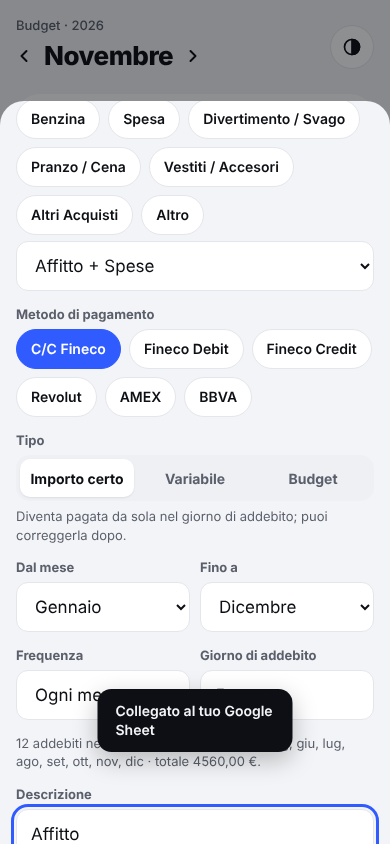
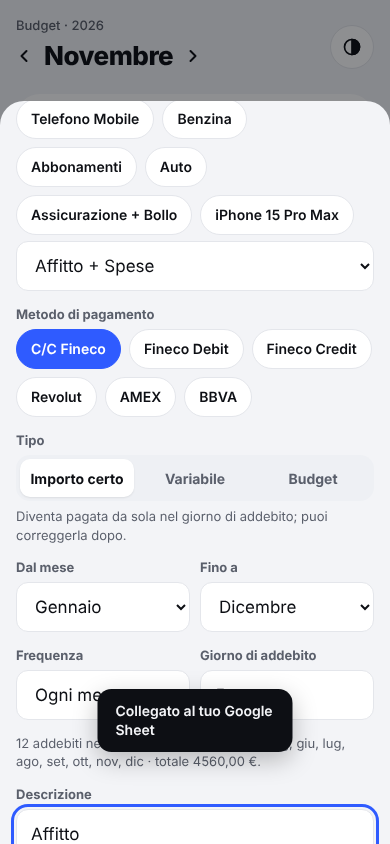
Ripartizione libera anche su mesi passati e sull'anno precedente
Claude-Session: https://claude.ai/code/session_01FKbM9GixWnYNCfzBey8tga

diff --git a/index.html b/index.html
@@ -1009,42 +1009,46 @@ document.addEventListener('submit',async e=>{
 function mesiDa(anno,mese,n=18){const out=[];for(let i=0;i<n;i++){const mm=mese-1+i;out.push({anno:anno+Math.floor(mm/12),mese:mm%12+1})}return out}
 const amKey=x=>x.anno+'-'+pad(x.mese);
 const amLabel=x=>MESI[x.mese-1]+(x.anno!==S.anno?' '+x.anno:'');
+function mesiTutti(c){const out=[];for(let a=c-1;a<=c+1;a++)for(let m=1;m<=12;m++)out.push({anno:a,mese:m});return out}
 function ripEditor(box,{tot,start,init}){
+  const centro=init&&init.centro||S.anno;let eqStart=null;
   let mode=init?init.mode:'no',n=init&&init.n||2;
   let rows=init&&init.rows?init.rows.map(r=>({am:r.am,v:r.v})):null;
   box.innerHTML=`<div class="seg" role="group" aria-label="Ripartizione"><button type="button" data-rip="no">Nessuna</button><button type="button" data-rip="eq">In parti uguali</button><button type="button" data-rip="cu">Personalizzata</button></div>
-   <div class="rip-eq" style="margin-top:10px"><label for="rip-n" class="small muted">Numero di mesi, dal mese di addebito</label><select id="rip-n" style="margin-top:6px">${Array.from({length:11},(_,i)=>`<option value="${i+2}" ${i+2===n?'selected':''}>${i+2} mesi</option>`).join('')}</select></div>
+   <div class="rip-eq" style="margin-top:10px"><div class="two"><div class="field"><label for="rip-da">Dal mese</label><select id="rip-da"></select></div><div class="field"><label for="rip-n">Per quanti mesi</label><select id="rip-n">${Array.from({length:11},(_,i)=>`<option value="${i+2}" ${i+2===n?'selected':''}>${i+2} mesi</option>`).join('')}</select></div></div></div>
    <div class="rip-cu" style="margin-top:10px;display:flex;flex-direction:column;gap:8px"><div class="rip-rows" style="display:flex;flex-direction:column;gap:8px"></div><button type="button" class="link rip-add" style="align-self:flex-start">+ Aggiungi mese</button></div>
    <p class="note rip-note" style="margin-top:8px"></p>`;
   const $=q=>box.querySelector(q);
-  const opts=sel=>mesiDa(start().anno,start().mese).map(x=>`<option value="${amKey(x)}" ${amKey(x)===sel?'selected':''}>${amLabel(x)}</option>`).join('');
+  const opts=sel=>mesiTutti(centro).map(x=>`<option value="${amKey(x)}" ${amKey(x)===sel?'selected':''}>${amLabel(x)}</option>`).join('');
   const ensureRows=()=>{if(rows&&rows.length)return;const m=mesiDa(start().anno,start().mese,2);rows=m.map(x=>({am:amKey(x),v:''}))};
-  const drawRows=()=>{$('.rip-rows').innerHTML=rows.map((r,i)=>`<div style="display:grid;grid-template-columns:1.2fr 1fr 44px;gap:8px;align-items:center"><select data-i="${i}" class="rip-m" aria-label="Mese della quota ${i+1}" style="height:46px;font-size:16px">${opts(r.am)}</select><input data-i="${i}" class="rip-v num" inputmode="decimal" placeholder="0,00" aria-label="Importo della quota ${i+1}" value="${esc(r.v)}" style="height:46px;font-size:16px;border-radius:12px;border:1px solid var(--line);background:var(--card);padding:0 12px;min-width:0"><button type="button" class="ghost rip-del" data-i="${i}" aria-label="Togli la quota ${i+1}" ${rows.length<=2?'disabled':''}>${ICON.close}</button></div>`).join('');
+  const drawRows=()=>{$('.rip-rows').innerHTML=rows.map((r,i)=>`<div style="display:grid;grid-template-columns:1.2fr 1fr 44px;gap:8px;align-items:center"><select data-i="${i}" class="rip-m" aria-label="Mese della quota ${i+1}" style="height:46px;font-size:16px">${opts(r.am)}</select><input data-i="${i}" class="rip-v num" inputmode="decimal" placeholder="0,00" aria-label="Importo della quota ${i+1}" value="${esc(r.v)}" style="height:46px;font-size:16px;border-radius:12px;border:1px solid var(--line);background:var(--card);padding:0 12px;min-width:0"><button type="button" class="ghost rip-del" data-i="${i}" aria-label="Togli la quota ${i+1}" ${rows.length<=1?'disabled':''}>${ICON.close}</button></div>`).join('');
     box.querySelectorAll('.rip-m').forEach(x=>x.onchange=()=>{rows[+x.dataset.i].am=x.value;note()});
     box.querySelectorAll('.rip-v').forEach(x=>x.oninput=()=>{rows[+x.dataset.i].v=x.value;note()});
     box.querySelectorAll('.rip-del').forEach(x=>x.onclick=()=>{rows.splice(+x.dataset.i,1);drawRows();note()})};
+  const drawEq=()=>{const cur=eqStart||amKey(start());$('#rip-da').innerHTML=opts(cur)};
   const calc=()=>{const v=tot();
     if(mode==='no'){const s0=start();return {ok:true,list:[{anno:s0.anno,mese:s0.mese,importo:r2(v||0)}]}}
-    if(mode==='eq'){const m=mesiDa(start().anno,start().mese,n);const q=r2(v/n);return {ok:v>0,err:'Scrivi l\'importo',list:m.map((x,i)=>({anno:x.anno,mese:x.mese,importo:i===n-1?r2(v-q*(n-1)):q}))}}
+    if(mode==='eq'){const es=eqStart||amKey(start());const [ea,em]=es.split('-').map(Number);const m=mesiDa(ea,em,n);const q=r2(v/n);return {ok:v>0,err:'Scrivi l\'importo',list:m.map((x,i)=>({anno:x.anno,mese:x.mese,importo:i===n-1?r2(v-q*(n-1)):q}))}}
     const seen=new Set();const list=[];
     for(const r of rows){const a=num(r.v);if(r.v===''||isNaN(a))continue;if(seen.has(r.am))return {ok:false,err:'Ogni mese può comparire una volta sola'};seen.add(r.am);const [an,me]=r.am.split('-').map(Number);list.push({anno:an,mese:me,importo:r2(a)})}
     list.sort((a,b)=>a.anno-b.anno||a.mese-b.mese);
     const somma=r2(list.reduce((s,q)=>s+q.importo,0)),resto=r2((v||0)-somma);
     if(!(v>0))return {ok:false,err:'Scrivi l\'importo',list,resto};
-    if(list.length<2)return {ok:false,err:'Inserisci almeno due mesi con il loro importo',list,resto};
+    if(list.length<1)return {ok:false,err:'Inserisci almeno un mese con il suo importo',list,resto};
     if(Math.abs(resto)>0.004)return {ok:false,err:resto>0?`Mancano ${eur(resto)} da ripartire`:`Hai ripartito ${eur(-resto)} in più del totale`,list,resto};
     return {ok:true,list,resto:0}};
   const note=()=>{const R=calc(),el=$('.rip-note');
     if(mode==='no'){el.textContent='Conta tutta nel mese di addebito.';return}
     if(mode==='eq'){el.textContent=R.ok?R.list.map(q=>amLabel(q)+' '+eur(q.importo)).join(' · ')+'. Uscita reale una sola volta.':'Scrivi l\'importo per vedere le quote.';return}
-    el.innerHTML=R.ok?'<span class="pos">Ripartito tutto.</span> Uscita reale una sola volta.':esc(R.err)};
+    el.innerHTML=R.ok?'<span class="pos">Ripartito tutto.</span> '+(R.list.length>1?'Uscita reale una sola volta. ':'')+'Puoi scegliere anche mesi passati o dell\'anno prima.':esc(R.err)};
   const sync=()=>{box.querySelectorAll('[data-rip]').forEach(b=>b.setAttribute('aria-pressed',b.dataset.rip===mode));
-    $('.rip-eq').hidden=mode!=='eq';$('.rip-cu').hidden=mode!=='cu';if(mode==='cu'){ensureRows();drawRows()}note()};
+    $('.rip-eq').hidden=mode!=='eq';$('.rip-cu').hidden=mode!=='cu';if(mode==='cu'){ensureRows();drawRows()}if(mode==='eq')drawEq();note()};
   box.querySelectorAll('[data-rip]').forEach(b=>b.onclick=()=>{mode=b.dataset.rip;sync()});
   $('#rip-n').onchange=e=>{n=+e.target.value;note()};
-  $('.rip-add').onclick=()=>{ensureRows();const used=new Set(rows.map(r=>r.am));const nx=mesiDa(start().anno,start().mese).find(x=>!used.has(amKey(x)));if(!nx){toast('Hai già usato tutti i mesi disponibili');return}rows.push({am:amKey(nx),v:''});drawRows();note()};
+  $('#rip-da').onchange=e=>{eqStart=e.target.value;note()};
+  $('.rip-add').onclick=()=>{ensureRows();const used=new Set(rows.map(r=>r.am));const last=rows.length?rows[rows.length-1].am.split('-').map(Number):[start().anno,start().mese];const all=mesiTutti(centro);const nx=mesiDa(last[0],last[1],36).slice(1).find(x=>!used.has(amKey(x))&&all.some(y=>amKey(y)===amKey(x)))||all.find(x=>!used.has(amKey(x)));if(!nx){toast('Hai già usato tutti i mesi disponibili');return}rows.push({am:amKey(nx),v:''});drawRows();note()};
   sync();
-  return {quote:calc,refresh:()=>{if(mode==='cu')drawRows();note()}};
+  return {quote:calc,refresh:()=>{if(mode==='cu')drawRows();if(mode==='eq')drawEq();note()}};
 }
 // scrive le quote (sostituendo quelle di un gruppo esistente)
 async function salvaQuote(base,totale,list,gruppoVecchio){
@@ -1070,7 +1074,7 @@ function sheetGruppo(g){
    <div class="field"><label>Ripartizione</label><div id="g-ripbox"></div></div>
    <div class="actions"><button class="pill-btn danger" type="button" id="g-del">Elimina</button><button class="pill-btn" type="submit">Salva</button></div></form>`,(el,close)=>{
     const $=q=>el.querySelector(q);const imp=$('#g-imp'),ms=$('#g-mese');
-    const RE=ripEditor($('#g-ripbox'),{tot:()=>num(imp.value),start:()=>({anno:start.anno,mese:+ms.value}),init:{mode:'cu',rows:qs.map(x=>({am:amKey(x),v:inp(x.importo)}))}});
+    const RE=ripEditor($('#g-ripbox'),{tot:()=>num(imp.value),start:()=>({anno:start.anno,mese:+ms.value}),init:{mode:'cu',centro:Math.round((qs[0].anno+qs[qs.length-1].anno)/2),rows:qs.map(x=>({am:amKey(x),v:inp(x.importo)}))}});
     imp.addEventListener('input',RE.refresh);ms.addEventListener('change',RE.refresh);
     $('#f-g').onsubmit=async e=>{e.preventDefault();const v=num(imp.value);if(!(v>0)){toast('Importo non valido');return}
       const R=RE.quote();if(!R.ok){toast(R.err);return}

diff --git a/sw.js b/sw.js
@@ -1,5 +1,5 @@
 // Copia offline dell'app. Cambia VERSIONE a ogni aggiornamento.
-const VERSIONE='budget-v8';
+const VERSIONE='budget-v9';
 const FILES=['./','./index.html','./manifest.webmanifest','./apple-touch-icon.png','./icon-192.png','./icon-512.png'];
 self.addEventListener('install',e=>{e.waitUntil(caches.open(VERSIONE).then(c=>c.addAll(FILES)));self.skipWaiting()});
 self.addEventListener('activate',e=>{e.waitUntil(caches.keys().then(k=>Promise.all(k.filter(n=>n!==VERSIONE).map(n=>caches.delete(n)))).then(()=>self.clients.claim()))});
